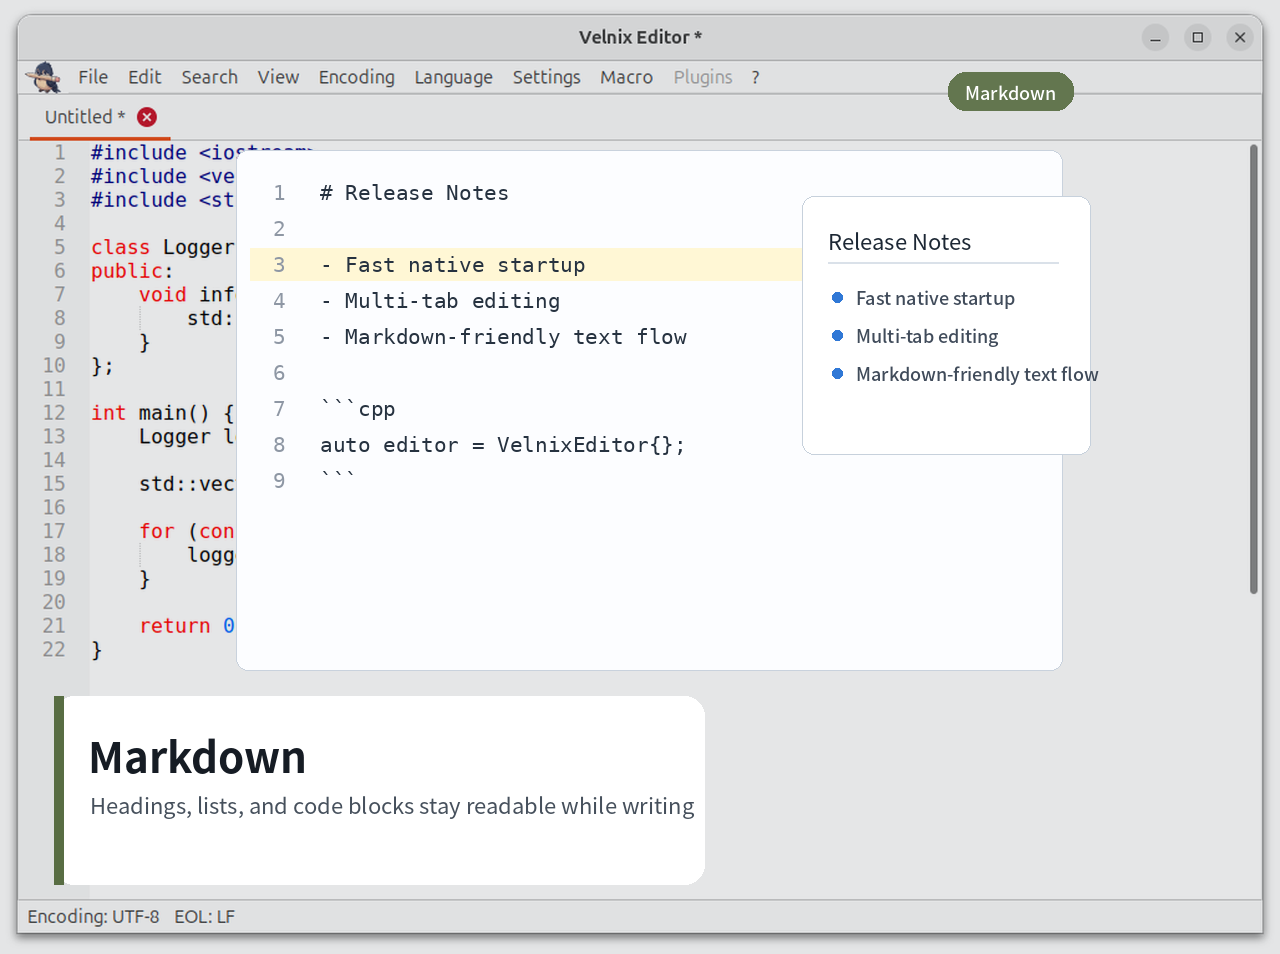
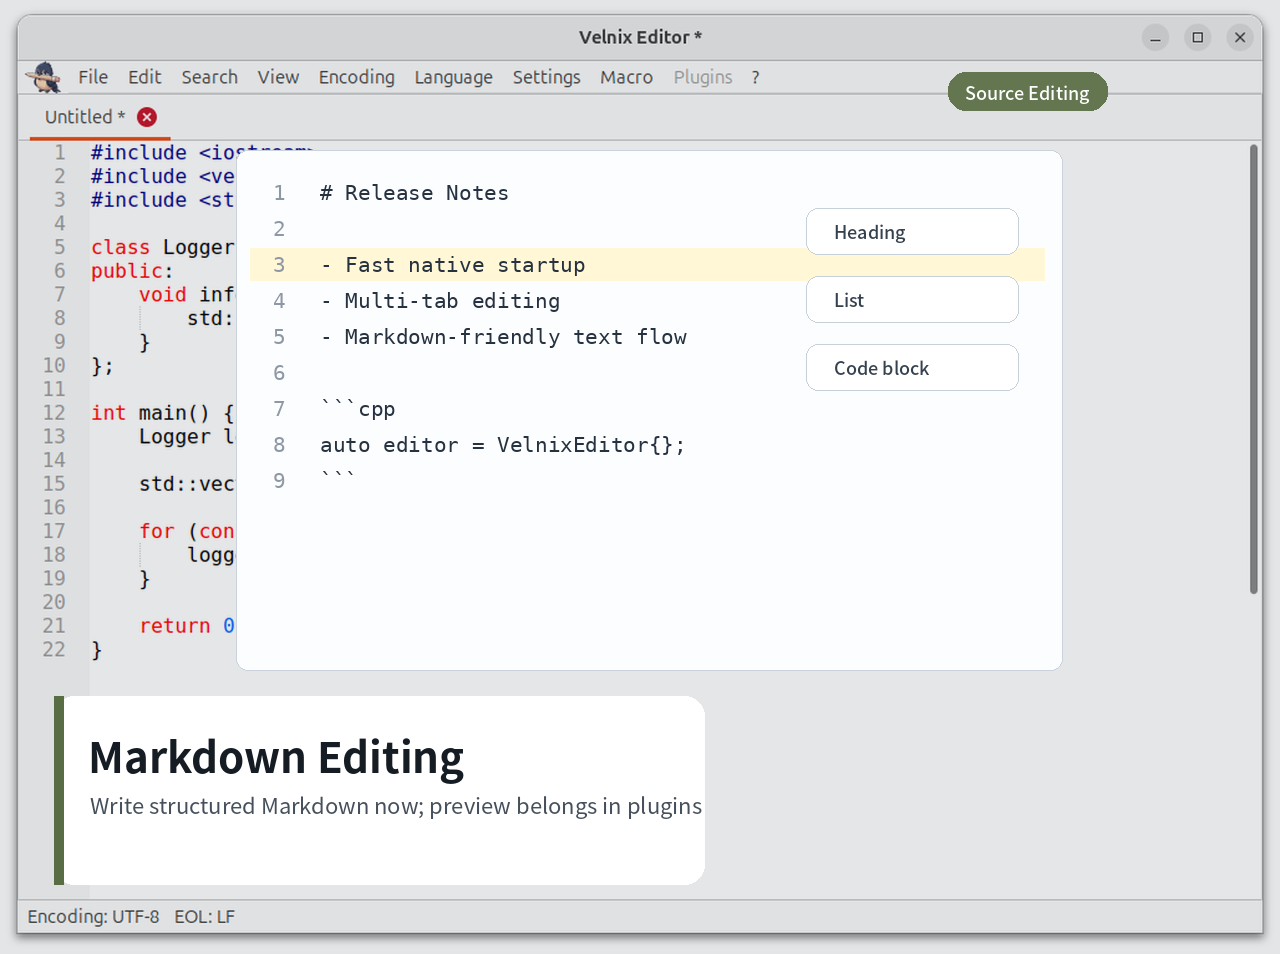
update readme.md, fix markdown.gif

Changed region(s): [[0.625, 0.1824, 0.875, 0.4864], [0.0625, 0.76, 0.5625, 0.8512], [0.75, 0.0608, 0.875, 0.1216]]

diff --git a/scripts/generate-demo-assets.py b/scripts/generate-demo-assets.py
@@ -225,14 +225,12 @@ def scene_markdown():
         frames.append(im)
     final = frames[-1].copy()
     draw = ImageDraw.Draw(final)
-    rounded(draw, (802, 196, 1090, 454), (255, 255, 255, 240), outline=(199, 209, 220), radius=12)
-    draw.text((828, 224), "Release Notes", fill=(28, 39, 52), font=F_SUB)
-    draw.line((828, 262, 1058, 262), fill=(218, 225, 233), width=2)
-    for n, item in enumerate(["Fast native startup", "Multi-tab editing", "Markdown-friendly text flow"]):
-        draw.ellipse((832, 292 + n * 38, 842, 302 + n * 38), fill=(48, 120, 214))
-        draw.text((856, 284 + n * 38), item, fill=(64, 75, 90), font=F_BADGE)
-    text_box(final, "Markdown", "Headings, lists, and code blocks stay readable while writing", accent=(88, 109, 67))
-    badge(final, "Markdown", fill=(88, 109, 67))
+    for n, label in enumerate(["Heading", "List", "Code block"]):
+        y = 208 + n * 68
+        rounded(draw, (806, y, 1018, y + 46), (255, 255, 255, 238), outline=(199, 209, 220), radius=12)
+        draw.text((834, y + 10), label, fill=(54, 65, 80), font=F_BADGE)
+    text_box(final, "Markdown Editing", "Write structured Markdown now; preview belongs in plugins", accent=(88, 109, 67))
+    badge(final, "Source Editing", fill=(88, 109, 67))
     save_cover("markdown", final)
     save_gif("markdown", frames + [final] * 5, 160)
 